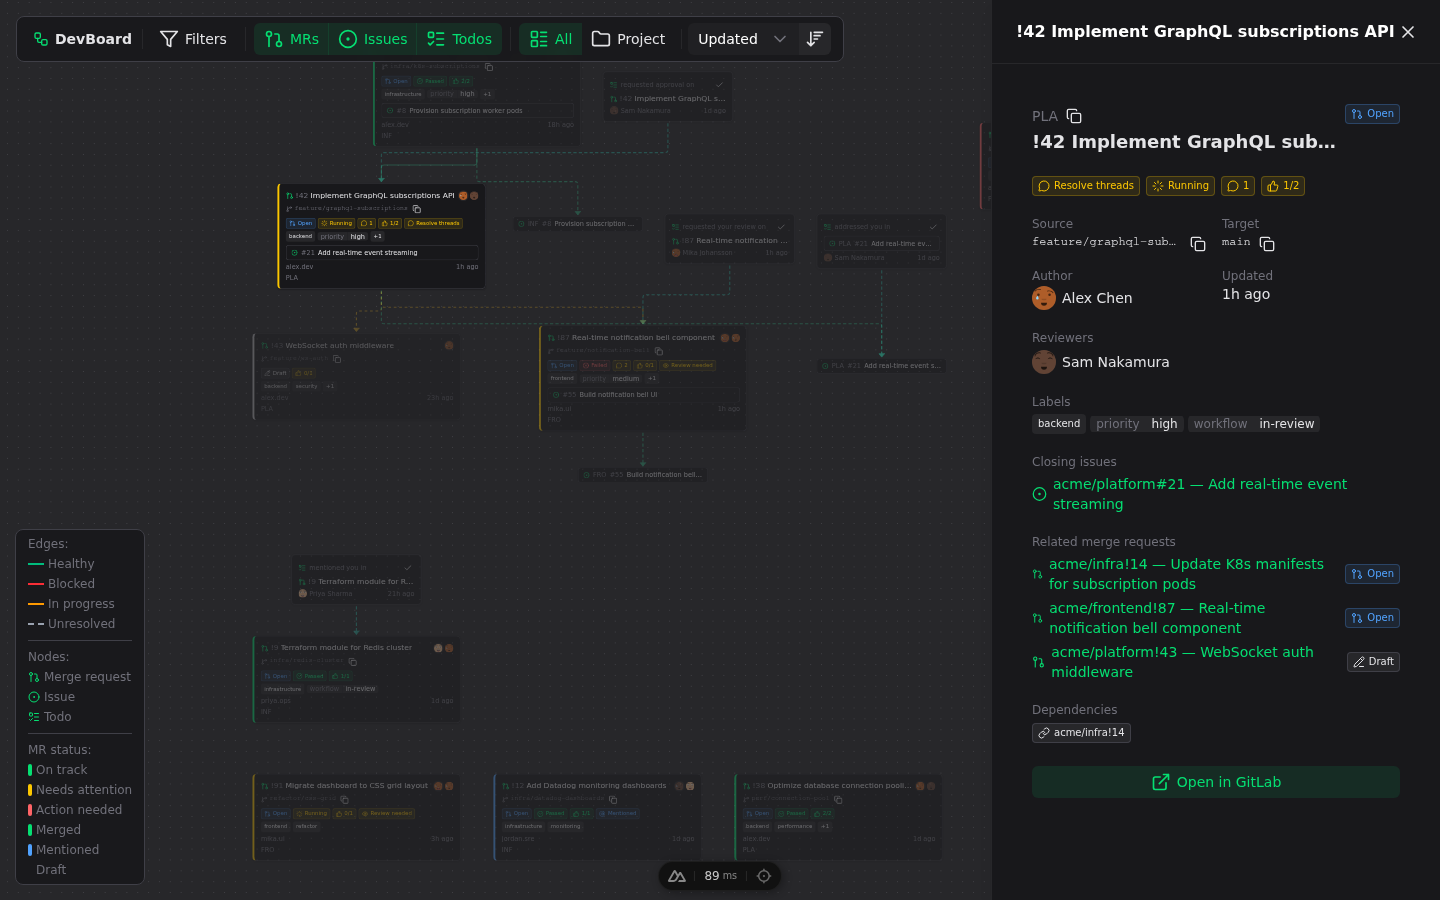
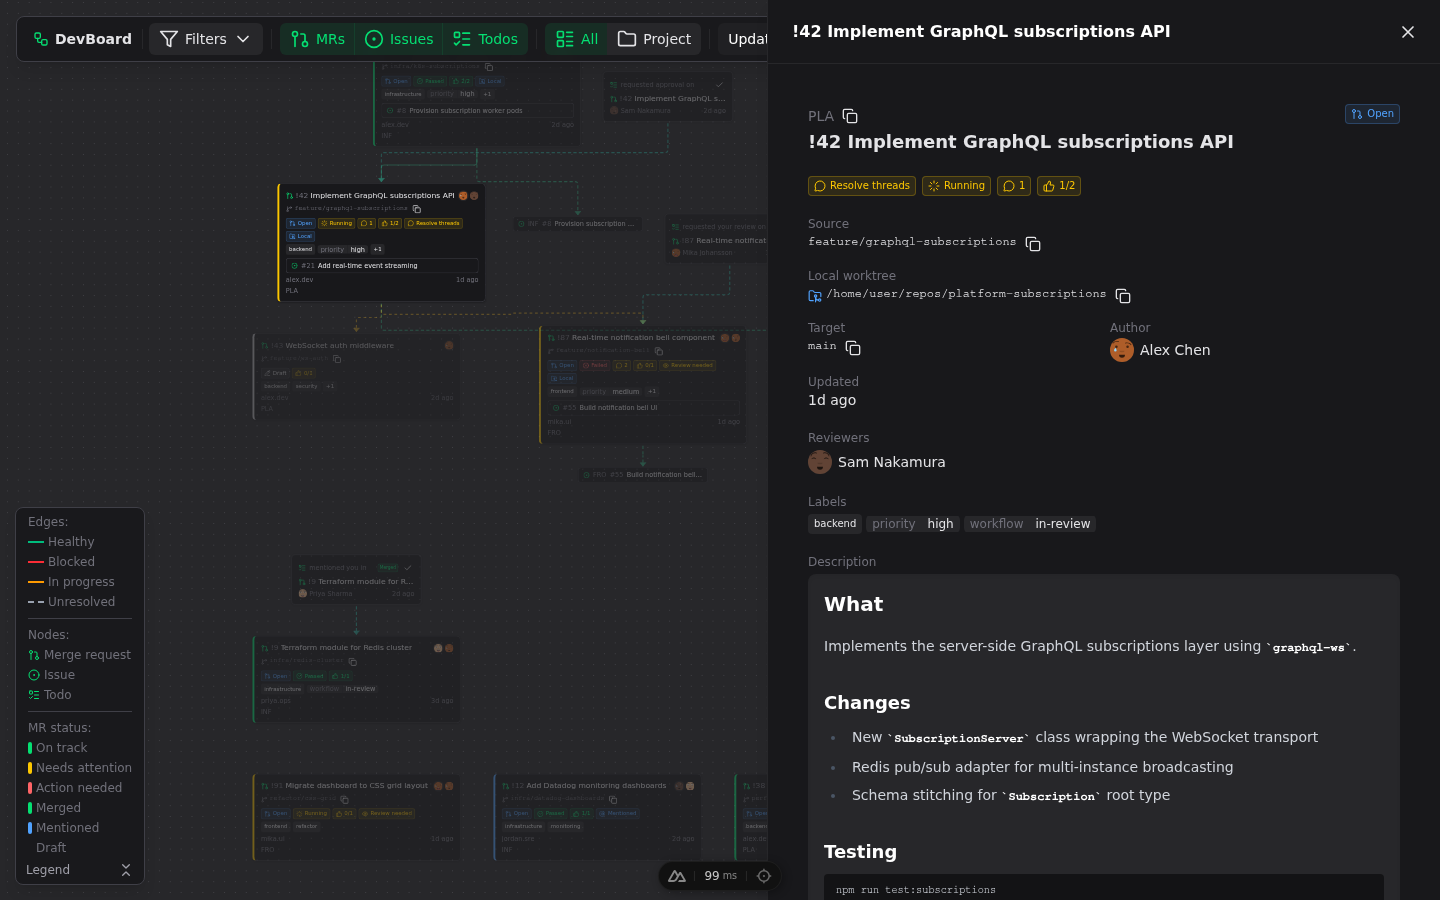
docs: add worktree feature to README, refresh all screenshots
- Add worktree tracking section with screenshot
- Add WORKTREE_SCAN_DIRS to configure example
- Add W shortcut to keyboard shortcuts table
- Add WorktreePanel and worktree scanner to architecture diagram
- Update data flow to include worktree scanning step
- Add collapsible legend to feature list
- Add worktree panel scene to screenshot script
- Enable worktrees in screenshot localStorage setup
- Refresh all 7 screenshots with latest UI

diff --git a/scripts/screenshots.ts b/scripts/screenshots.ts
@@ -77,6 +77,7 @@ async function run() {
       await page.evaluate((theme) => {
         localStorage.setItem("nuxt-color-mode", theme);
         localStorage.setItem("devboard:has-seen-welcome", "true");
+        localStorage.setItem("devboard:worktrees-enabled", "true");
       }, opts.theme);
       await page.goto(BASE, { waitUntil: "networkidle" });
     }
@@ -130,7 +131,15 @@ async function run() {
       await page.waitForTimeout(800);
     });
 
-    // ── Scene 6: Help modal ──────────────────────────────────────
+    // ── Scene 6: Worktree panel ──────────────────────────────────
+    await screenshot("worktree-panel.png", async (page) => {
+      await navigate(page, { theme: "dark" });
+      await waitForGraph(page);
+      await page.keyboard.press("w");
+      await page.waitForTimeout(800);
+    });
+
+    // ── Scene 7: Help modal ──────────────────────────────────────
     await screenshot("help.png", async (page) => {
       await navigate(page, { theme: "dark" });
       await waitForGraph(page);

diff --git a/README.md b/README.md
@@ -42,6 +42,12 @@ Todo and notification panel with tabs for all todos, mentions, and required acti
 
 <img src="docs/screenshots/todo-panel.png" alt="Todo panel" width="100%" />
 
+### Worktree tracking
+
+See your local git worktrees alongside MRs. DevBoard scans configured directories, links worktrees to MRs by branch name, and shows a "Local" badge on graph nodes that have a local checkout. Copy paths, jump to linked MRs or issues, and hide worktrees you don't need.
+
+<img src="docs/screenshots/worktree-panel.png" alt="Worktree panel" width="100%" />
+
 ### And more
 
 - **Smart action badges** — DevBoard determines what you need to do next: review, fix pipeline, rebase, resolve threads, or assign a reviewer
@@ -49,6 +55,7 @@ Todo and notification panel with tabs for all todos, mentions, and required acti
 - **Group by project** — Organize the graph into project-scoped boxes
 - **Auto-refresh** — Configurable interval (30s–5min) with toast notifications for changes
 - **Persistent layout** — Dragged node positions saved to localStorage
+- **Collapsible legend** — Graph legend collapses to save space, peeks on hover
 - **Dark mode** — Toggle between light and dark themes
 
 ---
@@ -75,9 +82,12 @@ Create a `.env` file:
 ```env
 GITLAB_HOST=gitlab.example.com
 GITLAB_PRIVATE_TOKEN=glpat-xxxxxxxxxxxxxxxxxxxx
+
+# Optional: enable worktree tracking
+WORKTREE_SCAN_DIRS=/home/user/repos,/home/user/projects
 ```
 
-Or, if you have `glab` configured, no `.env` is needed — DevBoard reads your token from `~/.config/glab-cli/config.yml` automatically.
+Or, if you have `glab` configured, no `.env` is needed for GitLab — DevBoard reads your token from `~/.config/glab-cli/config.yml` automatically.
 
 ### Run
 
@@ -108,6 +118,7 @@ This starts the dev server with pre-built fixtures: 8 MRs across 3 projects with
 | `Ctrl+K` / `Cmd+K` | Open search palette |
 | `r` | Refresh all data |
 | `t` | Toggle inbox / todo panel |
+| `w` | Toggle worktree panel |
 | `?` | Show keyboard shortcuts |
 | `Escape` | Close panel or drawer |
 | `Ctrl+click` / `Cmd+click` node | Open MR in GitLab |
@@ -142,24 +153,27 @@ app/                          # Frontend (Vue 3 + Composition API)
 │   ├── MrDetailDrawer.vue    # MR detail slide-over
 │   ├── SearchPalette.vue     # Cmd+K fuzzy search
 │   ├── TodoPanel.vue         # Inbox panel
+│   ├── WorktreePanel.vue     # Local worktree tracking panel
 │   └── *Badge.vue            # Status, pipeline, approval, threads badges
 ├── composables/              # Reactive state and data fetching
 └── types/                    # TypeScript definitions
 
 server/                       # Nitro API proxy
 ├── api/gitlab/               # 7 API routes
+├── api/worktrees/            # Worktree scanning endpoint
 ├── middleware/demo.ts         # Demo mode interceptor
 ├── fixtures/                  # Mock data for demo mode
-└── utils/                    # GitLab client, auth, normalization
+└── utils/                    # GitLab client, auth, normalization, worktree scanner
 ```
 
 ### Data flow
 
-1. Frontend fetches MRs, issues, todos, and mention-MRs in parallel via the Nitro proxy
+1. Frontend fetches MRs, issues, todos, mention-MRs, and worktrees in parallel via the Nitro proxy
 2. Server enriches each MR with approvals, threads, linked issues, and dependency refs
-3. `useMrGraph` computes a Dagre layout, creating nodes and edges
-4. Vue Flow renders the interactive graph with custom node components
-5. Auto-refresh polls at the configured interval with toast notifications on changes
+3. Worktree scanner reads `WORKTREE_SCAN_DIRS`, runs `git worktree list` on each repo, and caches results (30s TTL)
+4. `useMrGraph` computes a Dagre layout, creating nodes and edges
+5. Vue Flow renders the interactive graph with custom node components
+6. Auto-refresh polls at the configured interval with toast notifications on changes
 
 ---
 
